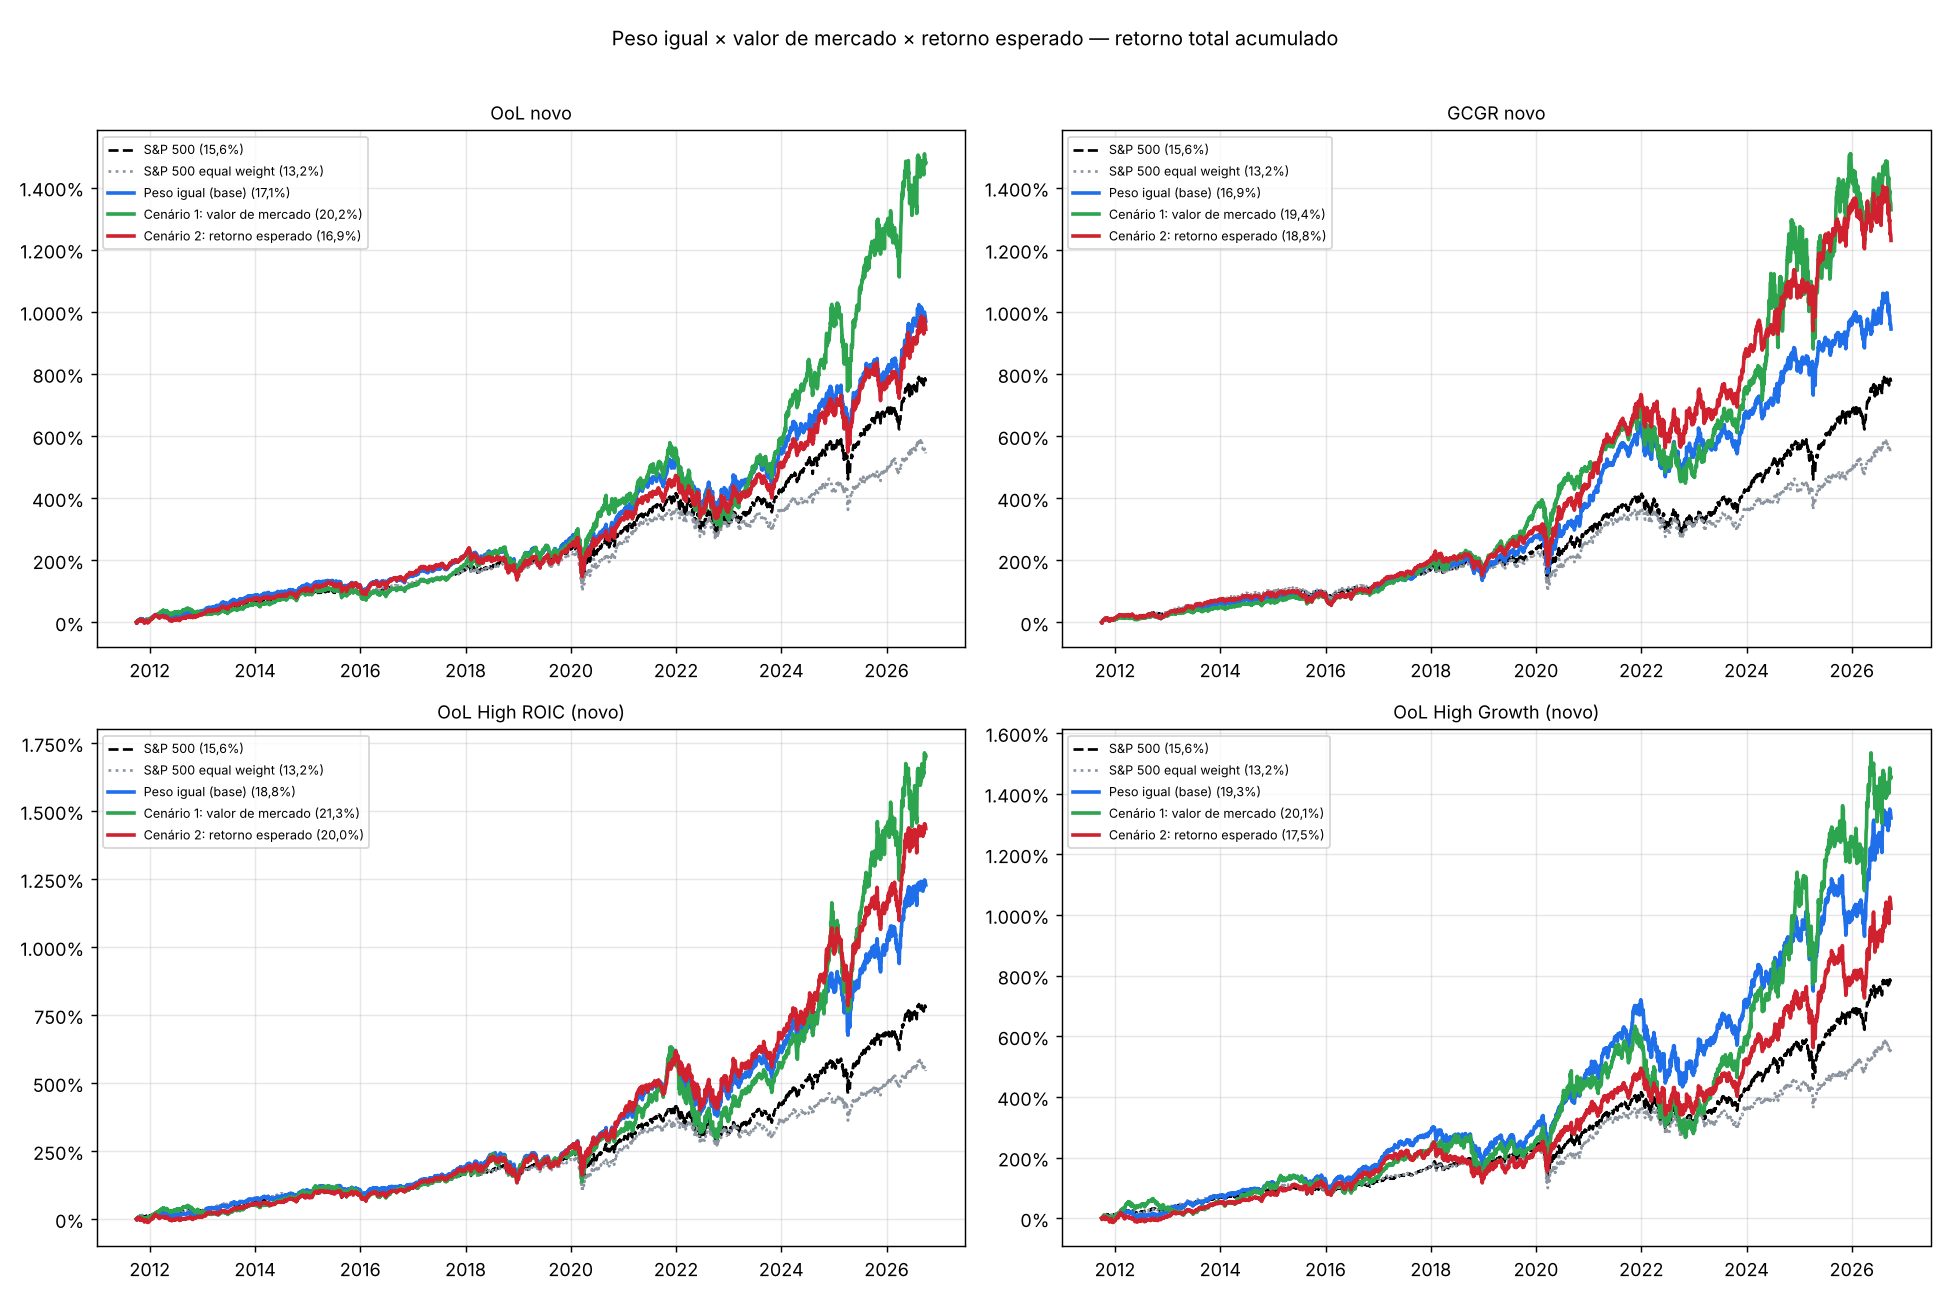
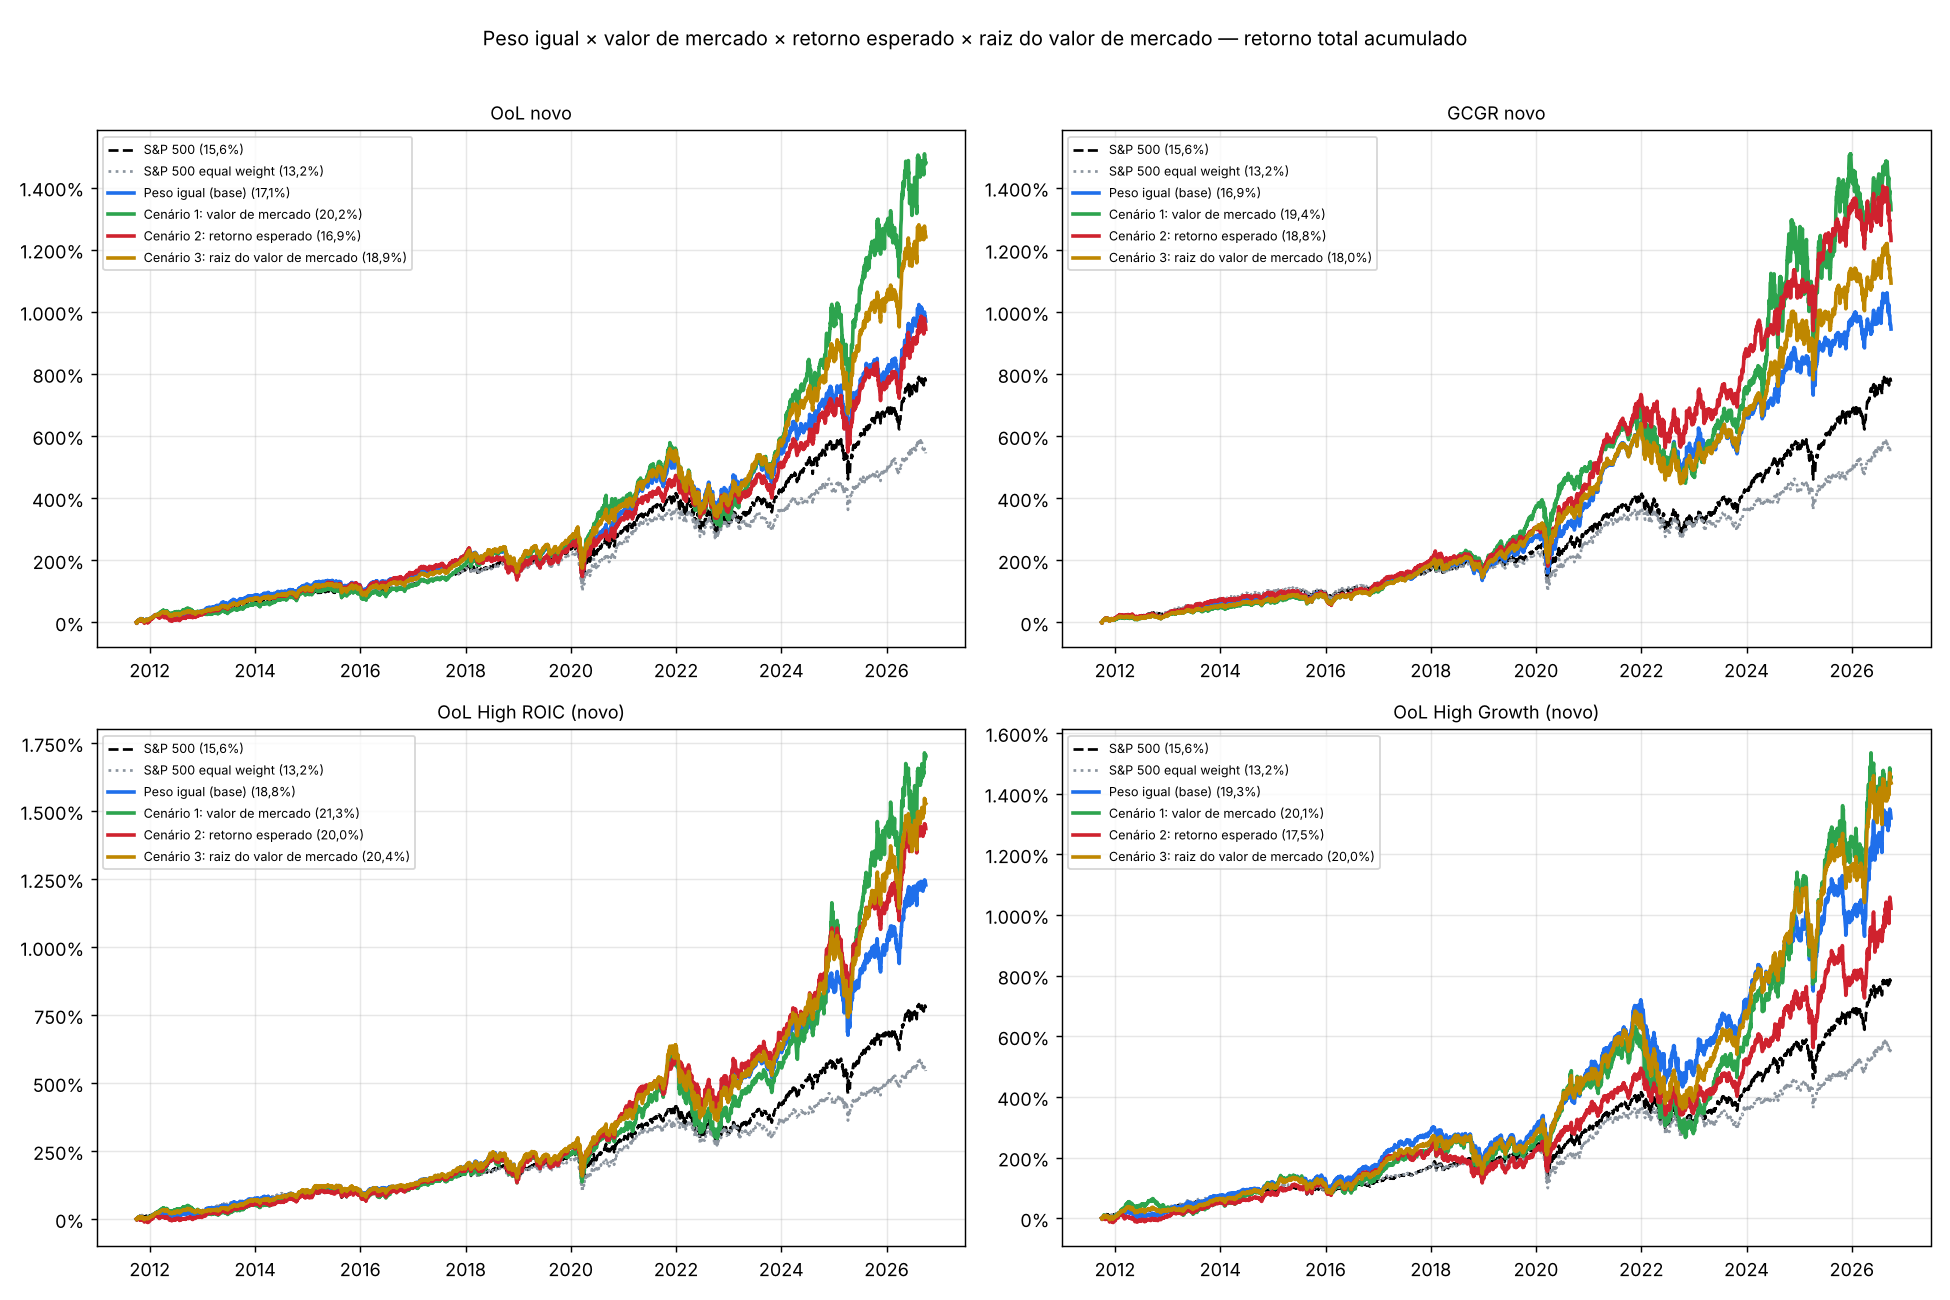
Cenario 3: peso pela raiz do valor de mercado
Claude-Session: https://claude.ai/code/session_0163Rqzt5kBig7h4xGh44EtX

diff --git a/price_tracker/backtest/pesos.py b/price_tracker/backtest/pesos.py
@@ -67,7 +67,8 @@ def main():
         x['firm'] = x.ticker.map(lambda t: DUAL.get(t, t)); x['mcap'] = x.mcap / x.groupby(['date', 'firm']).ticker.transform('size')
         W = {'Peso igual (base)': {d: pd.Series(1.0, index=g.ticker) for d, g in x.groupby('date')},
              'Cenário 1: valor de mercado': {d: pd.Series(g.mcap.values, index=g.ticker) for d, g in x.groupby('date')},
-             'Cenário 2: retorno esperado': {d: pd.Series(g.ret.clip(lower=0).values, index=g.ticker) for d, g in x.groupby('date')}}
+             'Cenário 2: retorno esperado': {d: pd.Series(g.ret.clip(lower=0).values, index=g.ticker) for d, g in x.groupby('date')},
+             'Cenário 3: raiz do valor de mercado': {d: pd.Series(np.sqrt(g.mcap.values), index=g.ticker) for d, g in x.groupby('date')}}
         r = {'Carteira': k}
         for wn, w in W.items():
             nav = run_weighted(w, adj, dates); st = stats(nav); Mn = nav.resample('ME').last()
@@ -84,34 +85,33 @@ def main():
            'sem custos. ETFs não mudam. Empresas com duas classes de ação (GOOG/GOOGL etc.) têm o valor de mercado dividido entre as classes.\n',
            f'Referências: S&P 500 {pc(S)} a.a.; S&P 500 equal weight {pc(stats(navs["S&P 500 equal weight"])["CAGR"])} a.a.\n',
            '## Retorno anual e ganho/perda contra o peso igual\n',
-           '| Carteira | Peso igual (base) | Cenário 1: valor de mercado | Ganho/perda | Cenário 2: retorno esperado | Ganho/perda |', '|---|---|---|---|---|---|']
+           '| Carteira | Peso igual (base) | C1: valor de mercado | Ganho/perda | C2: retorno esperado | Ganho/perda | C3: raiz do valor de mercado | Ganho/perda |',
+           '|---|---|---|---|---|---|---|---|']
     for r in res:
-        b, c1, c2 = r['Peso igual (base)'], r['Cenário 1: valor de mercado'], r['Cenário 2: retorno esperado']
-        out.append(f"| {r['Carteira']} | {pc(b[0])} | {pc(c1[0])} | **{pp(c1[0] - b[0])}** | {pc(c2[0])} | **{pp(c2[0] - b[0])}** |")
-    out += ['', '## Pior queda e janelas de 5 anos acima do S&P\n', '| Carteira | Base: pior queda | C1: pior queda | C2: pior queda | Base: janelas 5a | C1: janelas 5a | C2: janelas 5a |',
-            '|---|---|---|---|---|---|---|']
+        b, c1, c2, c3 = r['Peso igual (base)'], r['Cenário 1: valor de mercado'], r['Cenário 2: retorno esperado'], r['Cenário 3: raiz do valor de mercado']
+        out.append(f"| {r['Carteira']} | {pc(b[0])} | {pc(c1[0])} | **{pp(c1[0] - b[0])}** | {pc(c2[0])} | **{pp(c2[0] - b[0])}** | {pc(c3[0])} | **{pp(c3[0] - b[0])}** |")
+    out += ['', '## Pior queda e janelas de 5 anos acima do S&P\n', '| Carteira | Pior queda: base / C1 / C2 / C3 | Janelas 5a > S&P: base / C1 / C2 / C3 |', '|---|---|---|']
     for r in res:
-        b, c1, c2 = r['Peso igual (base)'], r['Cenário 1: valor de mercado'], r['Cenário 2: retorno esperado']
-        out.append(f"| {r['Carteira']} | {pc(b[1])} | {pc(c1[1])} | {pc(c2[1])} | {b[2]:.0%} | {c1[2]:.0%} | {c2[2]:.0%} |")
-    out += ['', '## Concentração (mediana dos trimestres)\n', '| Carteira | Ponderação | Maior peso | 5 maiores pesos |', '|---|---|---|---|']
-    for k, wn, mx, t5 in conc:
-        out.append(f'| {k} | {wn} | {mx:.0%} | {t5:.0%} |')
+        v = [r[k_] for k_ in ('Peso igual (base)', 'Cenário 1: valor de mercado', 'Cenário 2: retorno esperado', 'Cenário 3: raiz do valor de mercado')]
+        out.append(f"| {r['Carteira']} | {' / '.join(pc(z[1]) for z in v)} | {' / '.join(f'{z[2]:.0%}' for z in v)} |")
+    out += ['', '## Concentração (mediana dos trimestres): maior peso / 5 maiores somados\n',
+            '| Carteira | Peso igual | C1: valor de mercado | C2: retorno esperado | C3: raiz do valor de mercado |', '|---|---|---|---|---|']
+    cd = {(k, wn): (mx, t5) for k, wn, mx, t5 in conc}
+    for k in H:
+        out.append(f'| {k} | ' + ' | '.join(f'{cd[(k, wn)][0]:.0%} / {cd[(k, wn)][1]:.0%}' for wn in ('Peso igual (base)', 'Cenário 1: valor de mercado',
+                                                                                            'Cenário 2: retorno esperado', 'Cenário 3: raiz do valor de mercado')) + ' |')
     out += ['', '## Comparativos obrigatórios (peso igual)\n'] + bm.bench_table(navs, n)
     (ROOT / 'pesos.md').write_text('\n'.join(out)); print('\n'.join(out))
-    plot = {k: navs[k] for k in ('S&P 500', 'S&P 500 equal weight')}
-    for k in ('OoL novo', 'GCGR novo', 'OoL High ROIC (novo)', 'OoL High Growth (novo)'):
-        for wn, tag in (('Peso igual (base)', 'peso igual'), ('Cenário 1: valor de mercado', 'valor de mercado'), ('Cenário 2: retorno esperado', 'retorno esperado')):
-            plot[f'{k} — {tag}'] = curves[(k, wn)]
     import matplotlib; matplotlib.use('Agg'); import matplotlib.pyplot as plt, matplotlib.ticker as mt
     fig, axs = plt.subplots(2, 2, figsize=(15, 10), dpi=130)
     for ax, k in zip(axs.ravel(), ('OoL novo', 'GCGR novo', 'OoL High ROIC (novo)', 'OoL High Growth (novo)')):
         for nm, col, ls in (('S&P 500', '#000', '--'), ('S&P 500 equal weight', '#8c959f', ':')):
             ax.plot(navs[nm].index, (navs[nm] - 1) * 100, color=col, ls=ls, lw=1.5, label=f'{nm} ({pc(stats(navs[nm])["CAGR"])})')
-        for wn, col in (('Peso igual (base)', '#1f6feb'), ('Cenário 1: valor de mercado', '#2da44e'), ('Cenário 2: retorno esperado', '#cf222e')):
+        for wn, col in (('Peso igual (base)', '#1f6feb'), ('Cenário 1: valor de mercado', '#2da44e'), ('Cenário 2: retorno esperado', '#cf222e'), ('Cenário 3: raiz do valor de mercado', '#bf8700')):
             s = curves[(k, wn)]; ax.plot(s.index, (s - 1) * 100, color=col, lw=2, label=f'{wn} ({pc(stats(s)["CAGR"])})')
         ax.set_title(k, fontsize=10); ax.grid(alpha=.3); ax.legend(fontsize=7, loc='upper left')
         ax.yaxis.set_major_formatter(mt.FuncFormatter(lambda v, _: f'{v:,.0f}%'.replace(',', '.')))
-    fig.suptitle('Peso igual × valor de mercado × retorno esperado — retorno total acumulado', fontsize=11)
+    fig.suptitle('Peso igual × valor de mercado × retorno esperado × raiz do valor de mercado — retorno total acumulado', fontsize=11)
     fig.tight_layout(rect=(0, 0, 1, .97)); fig.savefig(ROOT / 'pesos.png'); plt.close(fig)
 
 

diff --git a/price_tracker/backtest/pesos.md b/price_tracker/backtest/pesos.md
@@ -8,53 +8,39 @@ Referências: S&P 500 15,6% a.a.; S&P 500 equal weight 13,2% a.a.
 
 ## Retorno anual e ganho/perda contra o peso igual
 
-| Carteira | Peso igual (base) | Cenário 1: valor de mercado | Ganho/perda | Cenário 2: retorno esperado | Ganho/perda |
-|---|---|---|---|---|---|
-| OoL antigo | 15,1% | 19,6% | **+4,5 p.p.** | 13,8% | **-1,4 p.p.** |
-| GCGR antigo | 15,0% | 19,3% | **+4,3 p.p.** | 15,7% | **+0,7 p.p.** |
-| OoL novo | 17,1% | 20,2% | **+3,1 p.p.** | 16,9% | **-0,2 p.p.** |
-| GCGR novo | 16,9% | 19,4% | **+2,5 p.p.** | 18,8% | **+1,9 p.p.** |
-| OoL High ROIC (novo) | 18,8% | 21,3% | **+2,4 p.p.** | 20,0% | **+1,2 p.p.** |
-| OoL High Growth (novo) | 19,3% | 20,1% | **+0,7 p.p.** | 17,5% | **-1,9 p.p.** |
-| Cyclicals | 5,5% | 2,7% | **-2,8 p.p.** | 5,7% | **+0,3 p.p.** |
+| Carteira | Peso igual (base) | C1: valor de mercado | Ganho/perda | C2: retorno esperado | Ganho/perda | C3: raiz do valor de mercado | Ganho/perda |
+|---|---|---|---|---|---|---|---|
+| OoL antigo | 15,1% | 19,6% | **+4,5 p.p.** | 13,8% | **-1,4 p.p.** | 17,8% | **+2,7 p.p.** |
+| GCGR antigo | 15,0% | 19,3% | **+4,3 p.p.** | 15,7% | **+0,7 p.p.** | 16,8% | **+1,8 p.p.** |
+| OoL novo | 17,1% | 20,2% | **+3,1 p.p.** | 16,9% | **-0,2 p.p.** | 18,9% | **+1,8 p.p.** |
+| GCGR novo | 16,9% | 19,4% | **+2,5 p.p.** | 18,8% | **+1,9 p.p.** | 18,0% | **+1,0 p.p.** |
+| OoL High ROIC (novo) | 18,8% | 21,3% | **+2,4 p.p.** | 20,0% | **+1,2 p.p.** | 20,4% | **+1,6 p.p.** |
+| OoL High Growth (novo) | 19,3% | 20,1% | **+0,7 p.p.** | 17,5% | **-1,9 p.p.** | 20,0% | **+0,6 p.p.** |
+| Cyclicals | 5,5% | 2,7% | **-2,8 p.p.** | 5,7% | **+0,3 p.p.** | 4,1% | **-1,4 p.p.** |
 
 ## Pior queda e janelas de 5 anos acima do S&P
 
-| Carteira | Base: pior queda | C1: pior queda | C2: pior queda | Base: janelas 5a | C1: janelas 5a | C2: janelas 5a |
-|---|---|---|---|---|---|---|
-| OoL antigo | -35,9% | -41,2% | -34,7% | 37% | 44% | 39% |
-| GCGR antigo | -37,2% | -32,4% | -33,7% | 46% | 64% | 39% |
-| OoL novo | -35,8% | -39,6% | -33,5% | 55% | 58% | 39% |
-| GCGR novo | -32,3% | -31,6% | -32,6% | 60% | 64% | 63% |
-| OoL High ROIC (novo) | -33,8% | -45,8% | -31,6% | 66% | 57% | 66% |
-| OoL High Growth (novo) | -35,0% | -50,0% | -38,3% | 60% | 54% | 55% |
-| Cyclicals | -52,8% | -58,1% | -44,6% | 0% | 0% | 0% |
+| Carteira | Pior queda: base / C1 / C2 / C3 | Janelas 5a > S&P: base / C1 / C2 / C3 |
+|---|---|---|
+| OoL antigo | -35,9% / -41,2% / -34,7% / -36,7% | 37% / 44% / 39% / 39% |
+| GCGR antigo | -37,2% / -32,4% / -33,7% / -31,3% | 46% / 64% / 39% / 61% |
+| OoL novo | -35,8% / -39,6% / -33,5% / -33,2% | 55% / 58% / 39% / 67% |
+| GCGR novo | -32,3% / -31,6% / -32,6% / -30,4% | 60% / 64% / 63% / 63% |
+| OoL High ROIC (novo) | -33,8% / -45,8% / -31,6% / -37,6% | 66% / 57% / 66% / 66% |
+| OoL High Growth (novo) | -35,0% / -50,0% / -38,3% / -41,2% | 60% / 54% / 55% / 62% |
+| Cyclicals | -52,8% / -58,1% / -44,6% / -53,9% | 0% / 0% / 0% / 0% |
 
-## Concentração (mediana dos trimestres)
+## Concentração (mediana dos trimestres): maior peso / 5 maiores somados
 
-| Carteira | Ponderação | Maior peso | 5 maiores pesos |
-|---|---|---|---|
-| OoL antigo | Peso igual (base) | 4% | 19% |
-| OoL antigo | Cenário 1: valor de mercado | 32% | 72% |
-| OoL antigo | Cenário 2: retorno esperado | 14% | 41% |
-| GCGR antigo | Peso igual (base) | 3% | 15% |
-| GCGR antigo | Cenário 1: valor de mercado | 30% | 65% |
-| GCGR antigo | Cenário 2: retorno esperado | 13% | 37% |
-| OoL novo | Peso igual (base) | 2% | 12% |
-| OoL novo | Cenário 1: valor de mercado | 25% | 63% |
-| OoL novo | Cenário 2: retorno esperado | 11% | 32% |
-| GCGR novo | Peso igual (base) | 5% | 23% |
-| GCGR novo | Cenário 1: valor de mercado | 29% | 71% |
-| GCGR novo | Cenário 2: retorno esperado | 14% | 43% |
-| OoL High ROIC (novo) | Peso igual (base) | 6% | 31% |
-| OoL High ROIC (novo) | Cenário 1: valor de mercado | 33% | 83% |
-| OoL High ROIC (novo) | Cenário 2: retorno esperado | 16% | 52% |
-| OoL High Growth (novo) | Peso igual (base) | 7% | 33% |
-| OoL High Growth (novo) | Cenário 1: valor de mercado | 41% | 88% |
-| OoL High Growth (novo) | Cenário 2: retorno esperado | 21% | 55% |
-| Cyclicals | Peso igual (base) | 20% | 100% |
-| Cyclicals | Cenário 1: valor de mercado | 32% | 100% |
-| Cyclicals | Cenário 2: retorno esperado | 36% | 100% |
+| Carteira | Peso igual | C1: valor de mercado | C2: retorno esperado | C3: raiz do valor de mercado |
+|---|---|---|---|---|
+| OoL antigo | 4% / 19% | 32% / 72% | 14% / 41% | 14% / 44% |
+| GCGR antigo | 3% / 15% | 30% / 65% | 13% / 37% | 11% / 36% |
+| OoL novo | 2% / 12% | 25% / 63% | 11% / 32% | 9% / 33% |
+| GCGR novo | 5% / 23% | 29% / 71% | 14% / 43% | 15% / 46% |
+| OoL High ROIC (novo) | 6% / 31% | 33% / 83% | 16% / 52% | 18% / 57% |
+| OoL High Growth (novo) | 7% / 33% | 41% / 88% | 21% / 55% | 21% / 64% |
+| Cyclicals | 20% / 100% | 32% / 100% | 36% / 100% | 26% / 100% |
 
 ## Comparativos obrigatórios (peso igual)
 
